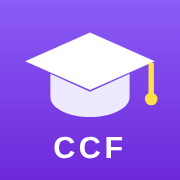
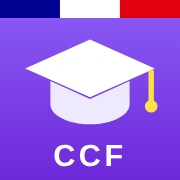
Icône « Gestion CCF » : drapeau français en haut
- Bandeau bleu-blanc-rouge en tête de l'icône (toutes tailles + version Android ronde)
- Cache du service worker passé en v2 pour rafraîchir les icônes

Claude-Session: https://claude.ai/code/session_01MJphxD5GWxJyeUjWkpNHH6

diff --git a/sw.js b/sw.js
@@ -1,6 +1,6 @@
 // Service worker minimal : rend la page d'accueil installable et disponible hors connexion.
 // Les pages Grist (espace enseignant, Direction) ne sont jamais mises en cache.
-const CACHE = "gestion-ccf-v1";
+const CACHE = "gestion-ccf-v2";
 const FICHIERS = ["./accueil_ccf.html", "./manifest.webmanifest", "./icones/icon-192.png", "./icones/icon-512.png"];
 
 self.addEventListener("install", e => {
